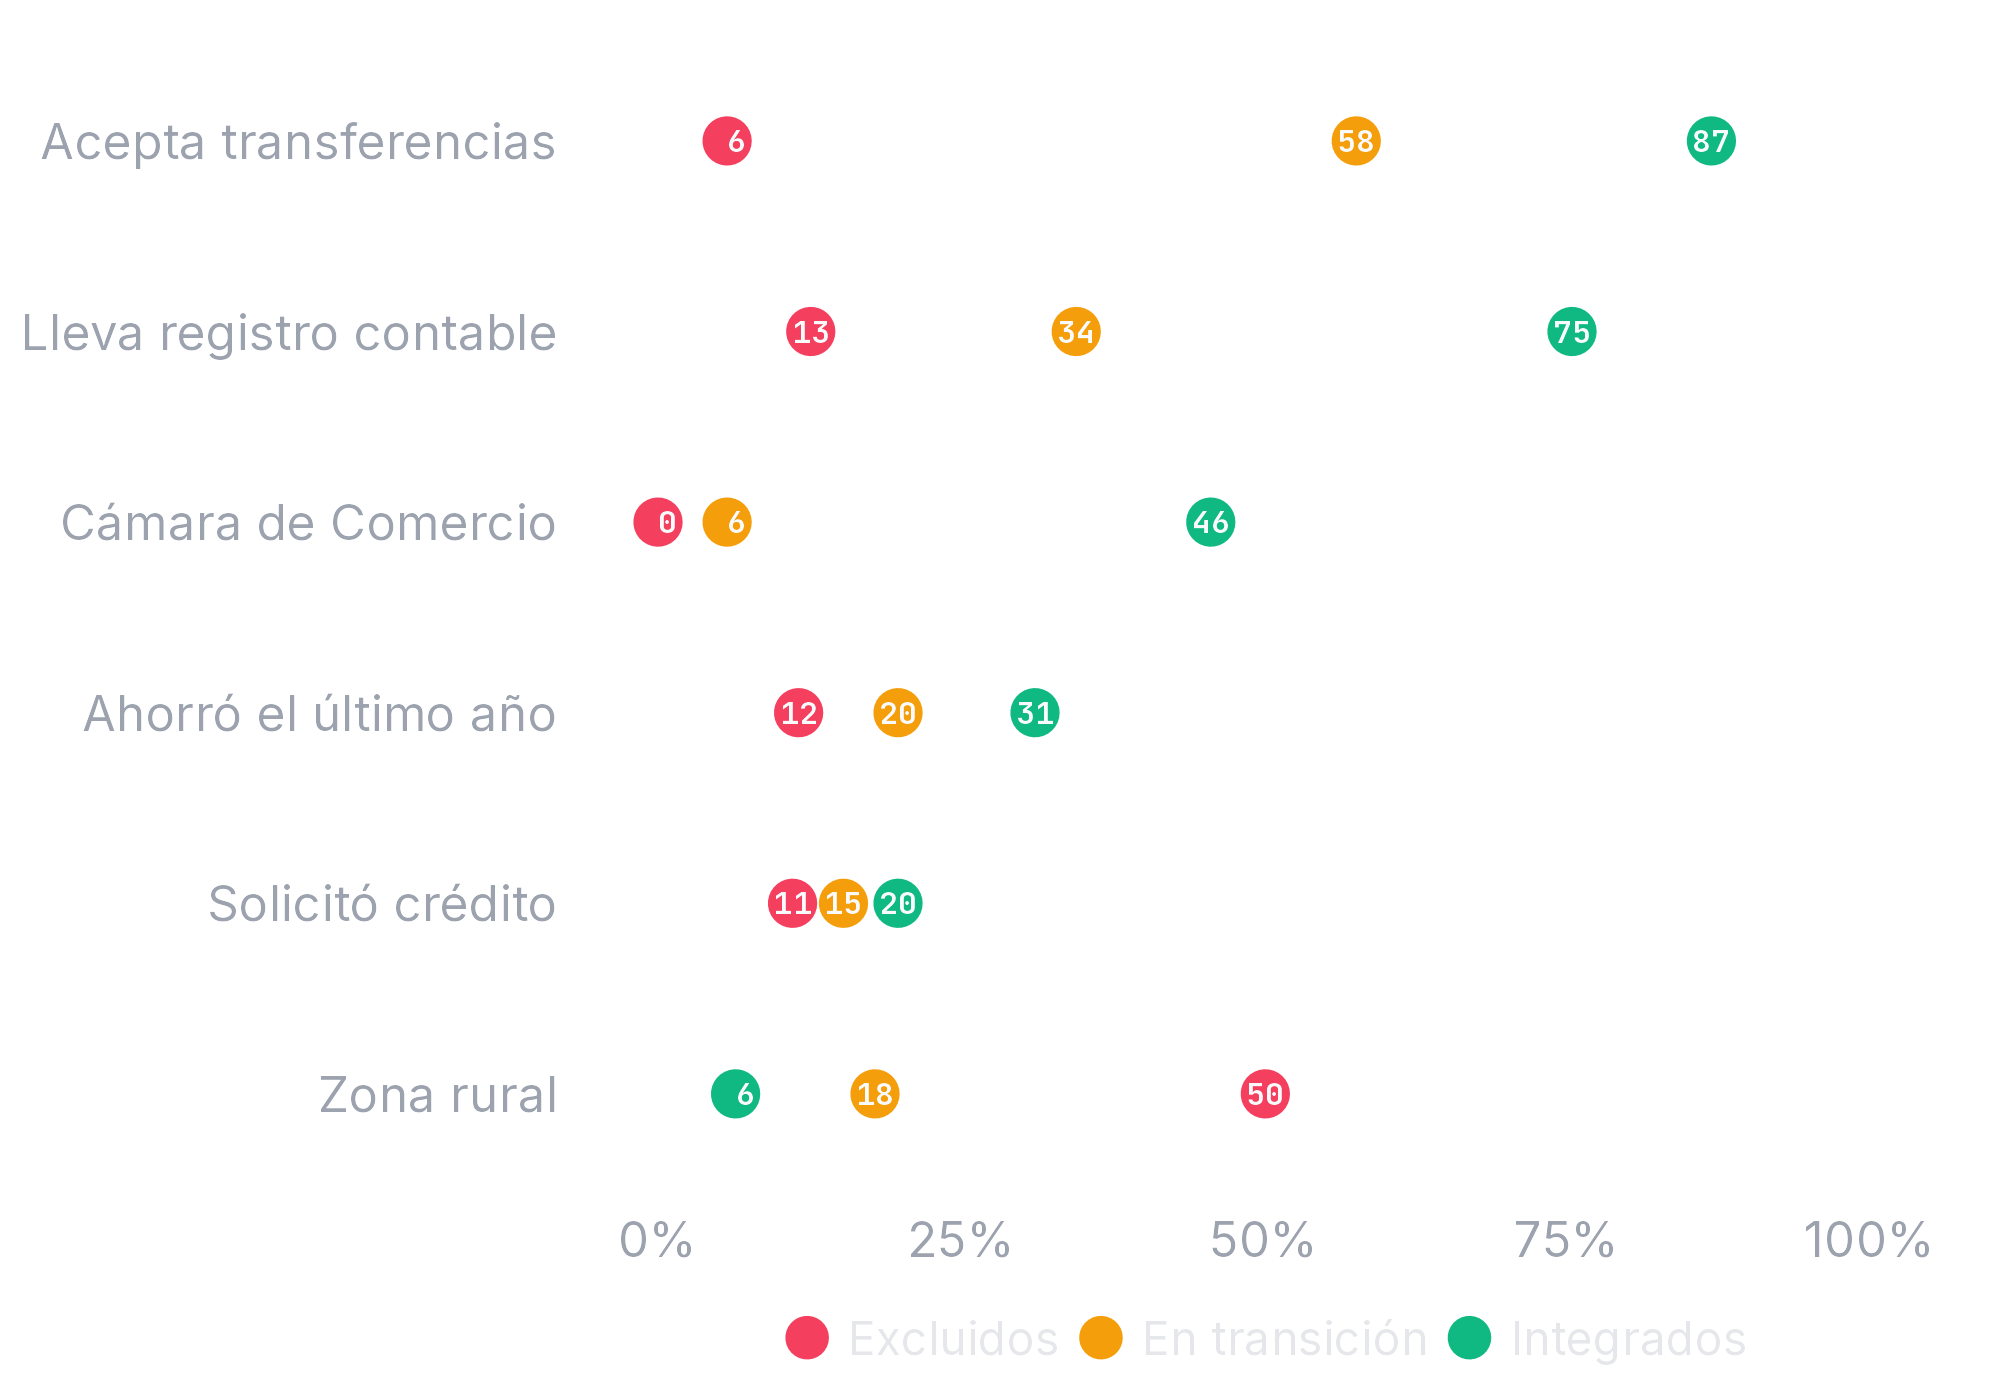
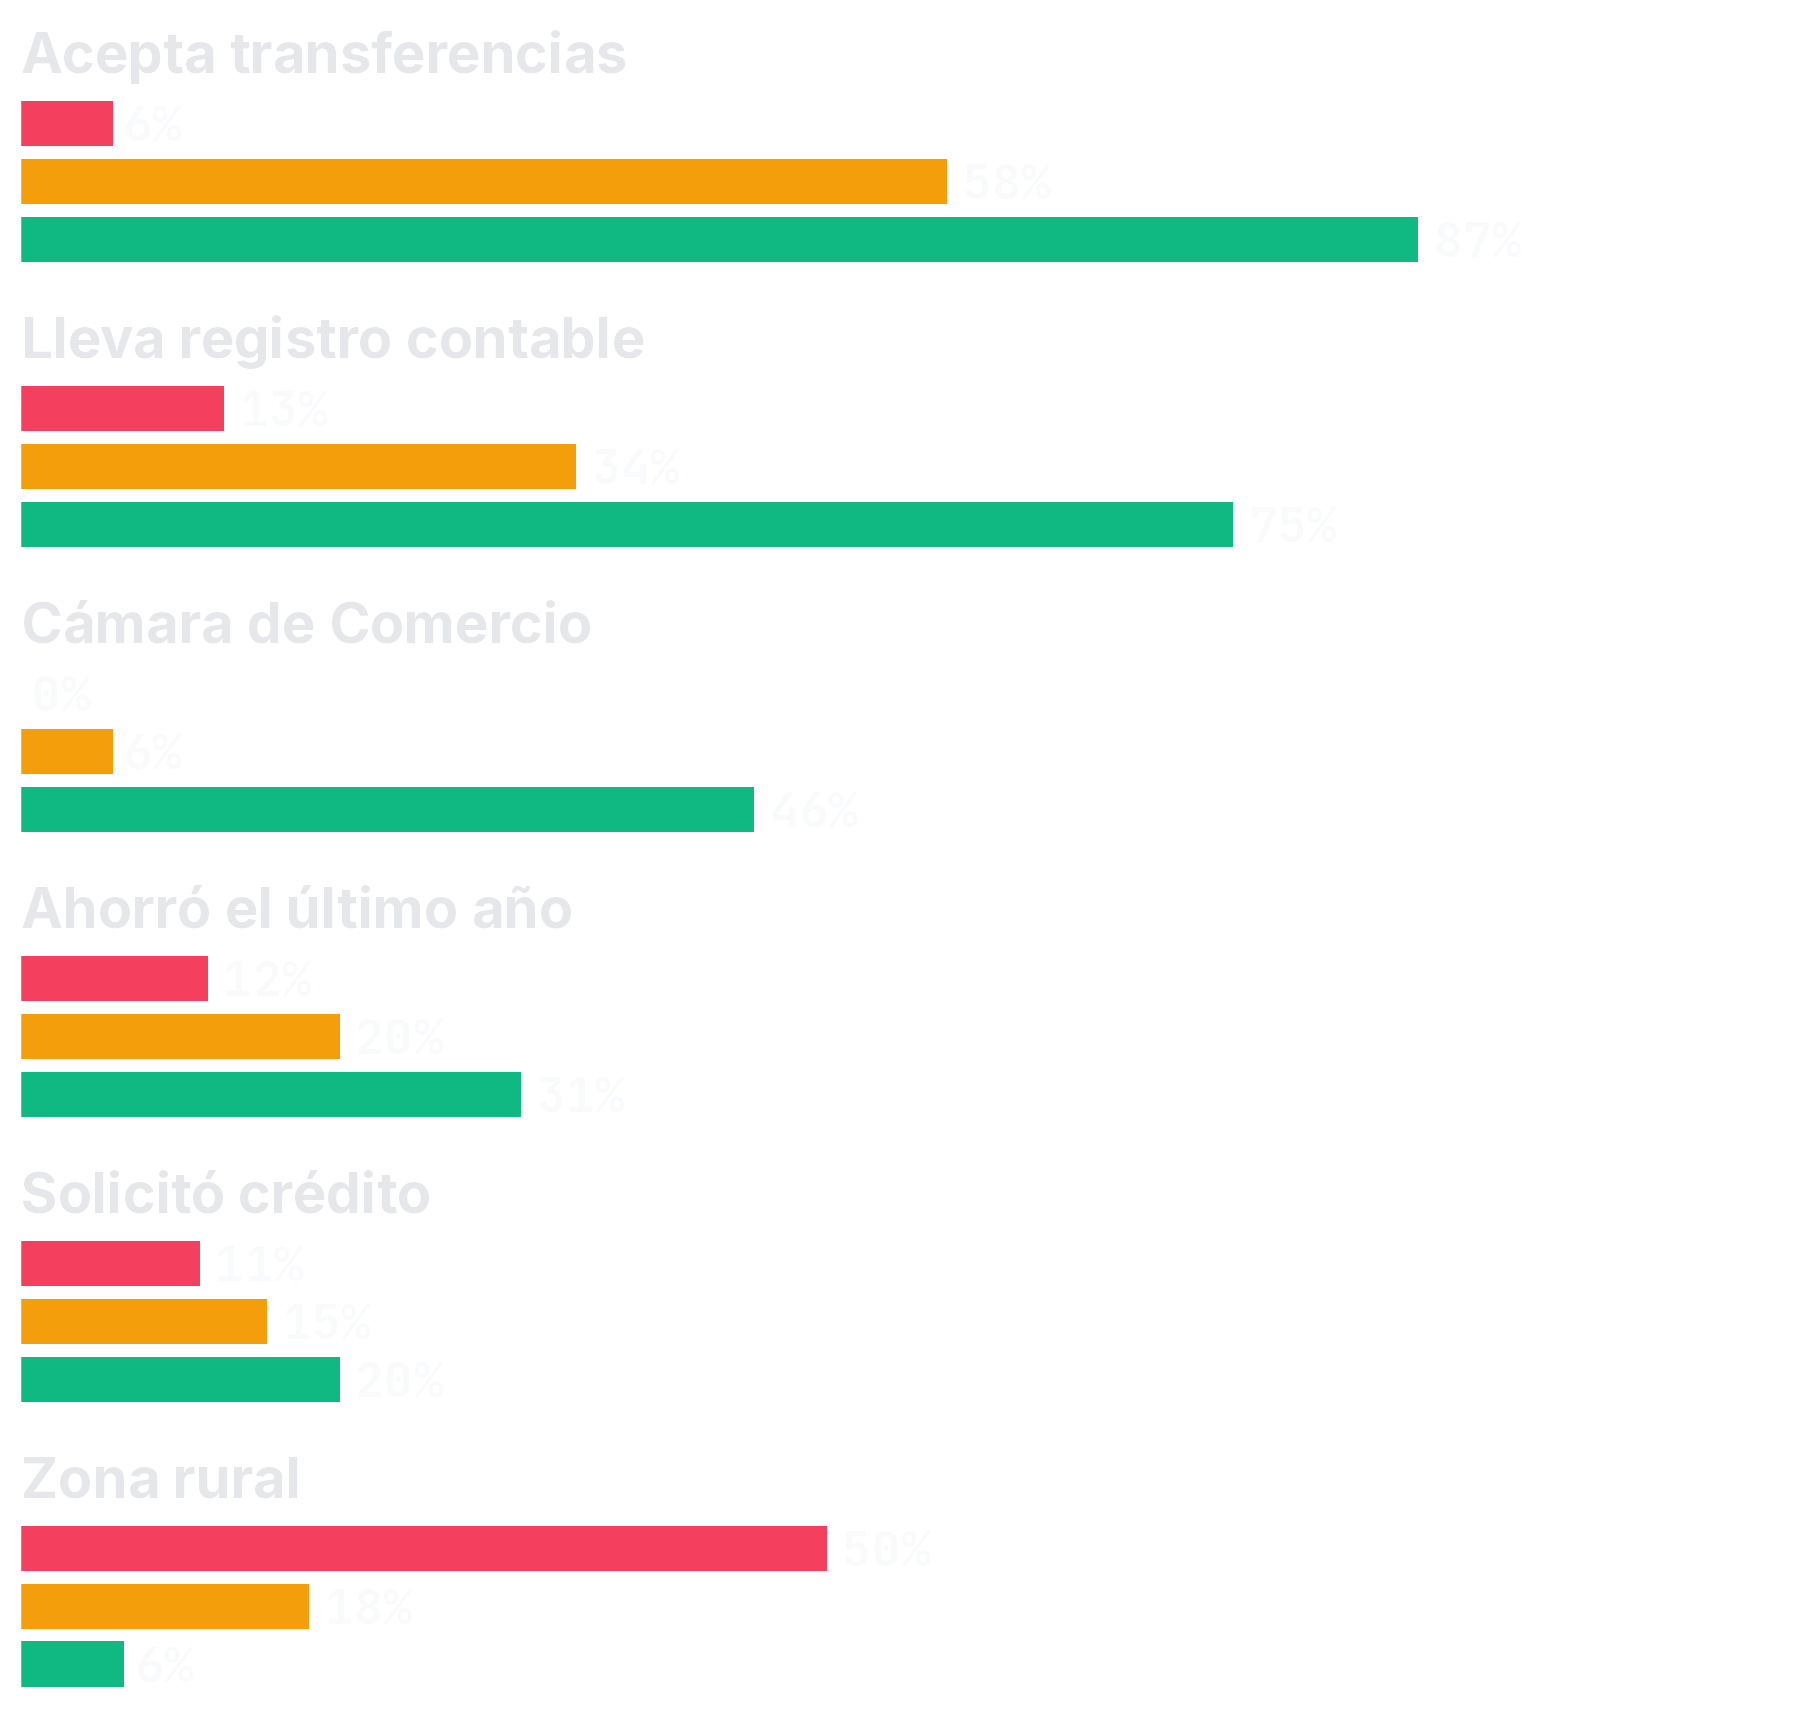
fix(presentacion): desborde en la diapositiva 11 y perfil de grupos en barras
- Diapositiva 11: la tarjeta de la regla del RUT se salía 14 px por arriba y
  por abajo; tamaños ajustados y centrado seguro.
- Diapositiva 12: el gráfico de puntos encimaba valores cercanos (11/15/20,
  0/6); ahora son barras agrupadas por indicador con la cifra al final y
  ocupan toda la columna.

diff --git a/presentacion/index.html b/presentacion/index.html
@@ -407,14 +407,14 @@ lift_pond <span class="o">&lt;-</span> s_xy / (s_x * s_y)
       <p class="lead">reglas terminan en <b>tiene RUT</b>.</p>
       <p class="body muted">En el resumen lo llamé <i>"factor exógeno"</i>. Un revisor objetó: <b>la ausencia de reglas no prueba exogeneidad</b>. Tenía razón: los negocios con RUT son el <span data-v="rut_pct" data-f="pct1"></span> del universo y sus combinaciones no alcanzan el umbral.</p>
     </div>
-    <div class="card stack" style="gap:28px; justify-content:center; border-color:rgba(245,158,11,.35);">
-      <div class="top amber">con soporte ≥ 5 %, sin otras variables de formalización en el antecedente</div>
-      <div class="rulebox" style="font-size:40px; padding:36px 40px;"><span class="brace">{</span><span class="lhs" data-v="regla_rut.lhs" data-f="lhs"></span><span class="brace">}</span><span class="arrow">⇒</span><span class="brace">{</span><span class="rhs" data-v="regla_rut.rhs"></span><span class="brace">}</span></div>
+    <div class="card stack" style="gap:22px; justify-content:safe center; border-color:rgba(245,158,11,.35);">
+      <div class="top amber" style="margin-bottom:0;">con soporte ≥ 5 %, sin otras variables de formalización en el antecedente</div>
+      <div class="rulebox" style="font-size:34px; padding:26px 34px;"><span class="brace">{</span><span class="lhs" data-v="regla_rut.lhs" data-f="lhs"></span><span class="brace">}</span><span class="arrow">⇒</span><span class="brace">{</span><span class="rhs" data-v="regla_rut.rhs"></span><span class="brace">}</span></div>
       <div class="stat-row" style="gap:36px;">
-        <div class="stat amber"><div class="num" style="font-size:96px;" data-v="regla_rut.lift" data-f="num2"></div><div class="lbl">lift ponderado</div></div>
-        <div class="stat"><div class="num" style="font-size:96px;" data-v="regla_rut.conf" data-f="pct1"></div><div class="lbl">confianza</div></div>
+        <div class="stat amber"><div class="num" style="font-size:84px;" data-v="regla_rut.lift" data-f="num2"></div><div class="lbl">lift ponderado</div></div>
+        <div class="stat"><div class="num" style="font-size:84px;" data-v="regla_rut.conf" data-f="pct1"></div><div class="lbl">confianza</div></div>
       </div>
-      <p class="body muted">Y la regla con <b>el lift más alto de todo el análisis</b> (<span class="mono amber" data-v="regla_max.lift" data-f="num2"></span>) es {<span data-v="regla_max.lhs" data-f="lhs"></span>} ⇒ {<span data-v="regla_max.rhs"></span>}. El silencio era del umbral, no del RUT.</p>
+      <p class="body muted" style="font-size:27px;">Y la regla con <b>el lift más alto de todo el análisis</b> (<span class="mono amber" data-v="regla_max.lift" data-f="num2"></span>) es {<span data-v="regla_max.lhs" data-f="lhs"></span>} ⇒ {<span data-v="regla_max.rhs"></span>}. El silencio era del umbral, no del RUT.</p>
     </div>
   </div>
   <span class="src">output/tablas/12d_reglas_rut_sin_formalizacion.csv · 06b_reglas_ponderadas.csv</span>
@@ -428,11 +428,11 @@ lift_pond <span class="o">&lt;-</span> s_xy / (s_x * s_y)
     <p class="body-xl">Cruzo <b>internet</b> × <b>RUT</b>. Los grupos no se solapan y cubren a todos.</p>
     <div class="gbar" id="gbar"></div>
     <div class="legend" style="flex-direction:column; gap:12px;"><span><i style="background:var(--dm-negative)"></i><b>Excluidos</b> · sin internet ni RUT</span><span><i style="background:var(--dm-accent-3)"></i><b>En transición</b> · solo uno de los dos</span><span><i style="background:var(--dm-positive)"></i><b>Integrados</b> · internet y RUT</span></div>
-    <p class="body muted">El resumen que envié decía <span class="mono">65 / 8 / 27</span>. Esas cifras no salían de ningún script. <b>Estas sí</b>, y la lectura se mantiene: una mayoría excluida, un grupo en transición y una minoría integrada.</p>
+    <p class="body muted">El resumen que envié decía 65/8/27. Esas cifras no salían de ningún script. <b>Estas sí</b>, y la lectura se mantiene: una mayoría excluida, un grupo en transición y una minoría integrada.</p>
   </div>
   <div class="stack" style="gap:16px; min-height:0;">
     <div class="kicker" style="text-align:center;">Perfil con variables que <b>no</b> definen los grupos (ponderado)</div>
-    <div class="figbox"><img class="fig" data-fig="perfil" alt="Perfil de los grupos"></div>
+    <div class="figbox" style="flex:1;"><img class="fig" data-fig="perfil" alt="Perfil de los grupos"></div>
   </div>
   <span class="src">output/tablas/11_segmentacion_grupos.csv · 11b_perfil_grupos.csv · scripts/06_segmentacion.R</span>
   <aside class="notes">Con esas dos variables armo tres grupos que no se solapan y cubren a todos. Aquí hay una confesión: el resumen decía sesenta y cinco, ocho y veintisiete, y esas cifras no salían de ningún script. Al hacerlo reproducible, cambiaron. Lo importante es la derecha: los grupos se separan en variables que no usé para definirlos. Transferencias: del seis al ochenta y siete por ciento. Son co-ocurrencias, no efectos, pero el paquete es consistente.</aside>

diff --git a/presentacion/datos.js b/presentacion/datos.js
@@ -284,5 +284,5 @@ window.DATOS = {
       "Pct_Con_RUT": 27.91
     }
   ],
-  "generado_en": "2026-10-21 15:39"
+  "generado_en": "2026-11-10 10:01"
 };
